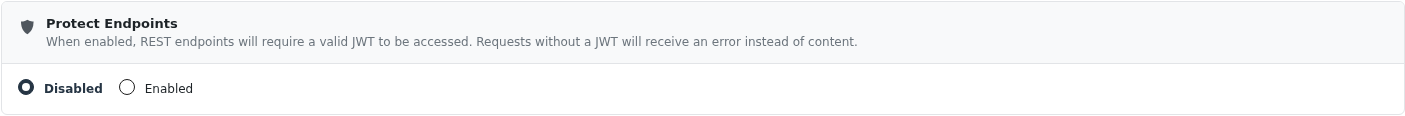
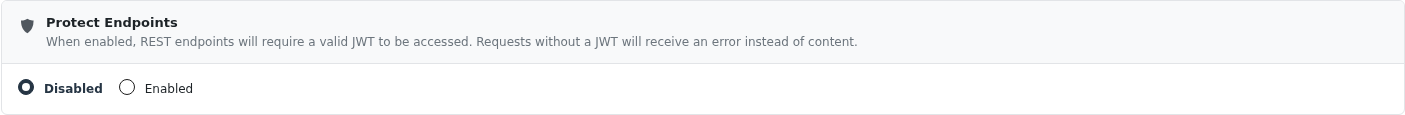
Improve docs

diff --git a/src/pages/v4.jsx b/src/pages/v4.jsx
@@ -352,11 +352,11 @@ const migrationSteps = [
   {
     n: '2',
     title: 'Work through the breaking changes',
-    desc: 'The breaking changes are listed above. Address them before going to production - the error envelope change, errorCode → error_code rename, register response shape, removed /register route, and User Identification location are the most likely to affect existing integrations.',
+    desc: 'The breaking changes are listed above. Address them before going to production - the error envelope change, the errorCode → error_code rename, the register response shape change, the removed /register route, and the relocated User Identification setting are the most likely to affect existing integrations.',
   },
   {
     n: '3',
-    title: 'Re-save your settings',
+    title: 'Validate your settings',
     desc: 'Your settings are automatically migrated. Open Settings → Simple JWT Login and verify your values carried over correctly.',
   },
   {
@@ -388,7 +388,7 @@ export default function V4Page() {
           </p>
           <div className={styles.heroCta}>
             <Link
-              to="https://github.com/nicumicle/simple-jwt-login/blob/v4/download/simple-jwt-login.zip?raw=true"
+              to="https://github.com/nicumicle/simple-jwt-login/blob/master/download/simple-jwt-login.zip?raw=true"
               className={styles.actionButton}
               title="Download v4 Release Candidate"
             >
@@ -518,7 +518,7 @@ export default function V4Page() {
             <span className={styles.sectionEyebrow}>Benchmarks</span>
             <h2 className={styles.sectionTitle}>v3 vs v4 Performance</h2>
             <p className={styles.sectionLead}>
-              Load-test results on identical infrastructure.
+              Load-test results from 100 calls per endpoint on identical infrastructure.
               All endpoints returned 100% success rate except where noted.
             </p>
             <div className={v4Styles.perfTableWrap}>
@@ -591,7 +591,7 @@ export default function V4Page() {
               </p>
               <div className={styles.ctaButtons}>
                 <Link
-                  to="https://github.com/nicumicle/simple-jwt-login/blob/v4/download/simple-jwt-login.zip?raw=true"
+                  to="https://github.com/nicumicle/simple-jwt-login/blob/master/download/simple-jwt-login.zip?raw=true"
                   className={styles.actionButton}
                   title="Download v4 Release Candidate"
                 >

diff --git a/src/pages/deploy-wordpress.jsx b/src/pages/deploy-wordpress.jsx
@@ -713,11 +713,6 @@ function DeployWordPressPage() {
             Marketplace setup, no terminal, no install wizard. We hand you the
             login.
           </p>
-          <p className={styles.heroNote}>
-            <FontAwesomeIcon icon={faShieldHalved} /> Your API token is used
-            only in your browser to talk to DigitalOcean. It is never sent to
-            us or stored anywhere.
-          </p>
         </div>
       </header>
 
@@ -737,6 +732,11 @@ function DeployWordPressPage() {
                     <p className={styles.cardLead}>
                       Paste a DigitalOcean Personal Access Token with{' '}
                       <strong>write</strong> scope to get started.
+                    </p>
+                    <p className={styles.infoHint}>
+                      <FontAwesomeIcon icon={faShieldHalved} /> Your API token
+                      is used only in your browser to talk to DigitalOcean. It
+                      is never sent to us or stored anywhere.
                     </p>
                     <Field
                       label="DigitalOcean API token"
@@ -1159,7 +1159,7 @@ function DeployWordPressPage() {
                   WordPress server.
                 </p>
                 <Link to={REFERRAL_URL} className={styles.referralBtn}>
-                  Get $5 in credit <FontAwesomeIcon icon={faArrowUpRightFromSquare} />
+                  Get Free Credits <FontAwesomeIcon icon={faArrowUpRightFromSquare} />
                 </Link>
                 <p className={styles.sideFinePrint}>
                   Already have an account? Just paste your token on the left.

diff --git a/docusaurus.config.ts b/docusaurus.config.ts
@@ -349,11 +349,11 @@ const config: Config = {
           title: 'Ecosystem',
         },
         {
-          type: 'docsVersionDropdown',
-          position: 'left',
+          type: 'search',
+          position: 'right',
         },
         {
-          type: 'search',
+          type: 'docsVersionDropdown',
           position: 'right',
         },
         // {

diff --git a/src/pages/deploy-wordpress.module.css b/src/pages/deploy-wordpress.module.css
@@ -62,17 +62,6 @@
   margin: 0 auto 1.25rem;
 }
 
-.heroNote {
-  display: inline-flex;
-  align-items: center;
-  gap: 0.5rem;
-  font-size: 0.85rem;
-  line-height: 1.6;
-  color: rgba(133, 216, 181, 0.85);
-  max-width: 560px;
-  margin: 0 auto;
-}
-
 .heroLogo {
   display: inline-flex;
   margin: 1.25rem 0 1.5rem;

diff --git a/docs/Protect-Endpoints.md b/docs/Protect-Endpoints.md
@@ -8,19 +8,28 @@ author: Nicu Micle
 author_url: https://github.com/nicumicle
 ---
 
-The Protect Endpoints feature lets you require a valid JWT for any WordPress REST API route. Use it to lock down sensitive data - such as user profiles, private posts, or custom post types - so they can only be accessed by authenticated callers.
+The Protect Endpoints feature lets you require a valid JWT for any WordPress REST API route. Use it to lock down sensitive data - such as user profiles, private posts, or custom post types - so they can only be accessed by authenticated callers, optionally restricted to specific WordPress roles.
 
-When a protected endpoint is called without a valid JWT, the plugin returns a `403` error immediately, before WordPress processes the request.
-
-The following error will be displayed, when an endpoint is protected and no JWT is provided:
+When a protected endpoint is called without a valid JWT, the plugin returns a `401` error immediately, before WordPress processes the request:
 
 ```json
 {
   "success": false,
   "data": {
     "message": "You are not authorized to access this endpoint.",
-    "errorCode": 403,
-    "type": "simple-jwt-login-route-protect"
+    "error_code": 75
+  }
+}
+```
+
+If a valid JWT is provided but the user doesn't have one of the roles required by a **JWT + Roles** rule, the plugin returns a `403` error instead:
+
+```json
+{
+  "success": false,
+  "data": {
+    "message": "You do not have the required role to access this endpoint.",
+    "error_code": 114
   }
 }
 ```
@@ -35,48 +44,46 @@ Configure under **Settings → Simple JWT Login → Protect Endpoints**.
 
 Enable or disable the endpoint protection feature. When disabled, no JWT check is applied to any REST route.
 
-### Protection Scope
+### Endpoint Rules
 
-![Protection Scope](/assets/images/screenshots/protect-endpoints/protection-scope.png)
+![Endpoint Rules](/assets/images/screenshots/protect-endpoints/endpoint-rules.png)
 
-Controls which endpoints are subject to JWT protection. Two options:
+Define per-endpoint rules. Click **+ Add Endpoint** to add a rule. Rules are evaluated top to bottom - the first matching rule wins.
 
-| Option | Behavior |
-| :----- | :------- |
-| **Apply on All REST Endpoints** | All REST API routes require a JWT. Endpoints in the **Whitelisted Endpoints** list are excluded from this requirement. |
-| **Apply only on Specific REST endpoints** | Only the routes listed in the **Protected Endpoints** list require a JWT. All other routes remain public. |
-
-### Whitelisted Endpoints
-
-![Whitelisted Endpoints](/assets/images/screenshots/protect-endpoints/whitelisted-endpoints.png)
-
-Visible when "Apply on All REST Endpoints" is selected. Add endpoint rules here to allow public access to those routes even though global protection is enabled.
-
-### Protected Endpoints
-
-Visible when "Apply only on Specific REST endpoints" is selected. Add endpoint rules here to require a JWT for those specific routes.
-
-**Each endpoint rule has three fields:**
+**Each rule has the following fields:**
 
 | Field | Options | Description |
 | :---- | :------ | :---------- |
 | HTTP Method | ALL, GET, POST, PUT, PATCH, DELETE | Which request methods the rule applies to. |
 | Match type | Starts with, Exact match | Whether the path must start with the value or match it exactly. |
-| URL path | text input | The REST API path to match (e.g. `/wp/v2/users`). |
+| Endpoint | text input | The REST API path to match (e.g. `/wp/v2/users`). |
+| Type | Public, JWT required, JWT + Roles | **Public** - always accessible, even with protection enabled by default. **JWT required** - a valid JWT is required, for any authenticated user. **JWT + Roles** - a valid JWT is required *and* the user must have at least one of the specified WordPress roles. |
+| Roles | comma-separated list | Only shown when Type is **JWT + Roles**. WordPress roles allowed to access the endpoint (e.g. `administrator, editor`). |
+
+### Default Action
+
+![Default Action](/assets/images/screenshots/protect-endpoints/default-action.png)
+
+Controls what happens to any endpoint that doesn't match a rule above:
+
+| Option | Behavior |
+| :----- | :------- |
+| **Allow access - protect only the endpoints listed above** | All REST routes are public by default. Only endpoints matching a **JWT required** or **JWT + Roles** rule need a JWT. |
+| **Require a valid JWT - keep only the endpoints listed above public** | All REST routes require a JWT by default. Only endpoints matching a **Public** rule stay public. |
 
 ---
 
 ## Example Configurations
 
 ####  Example 1
-Assume you specify `/wp/v2/users` with `ALL` and `Exact Match` in either the Protect or Whitelist settings.
+Assume you add a rule for `/wp/v2/users` with `ALL` and `Exact Match`.
 
 The rule applies to these URLs:
 - `http://yoursite.com/?rest_route=/wp/v2/users`
 - `http://yoursite.com/wp-json/wp/v2/users`
 
 #### Example 2
-Assume you specify `/wp/v2/users` with `GET` and `Starts With` in either the Protect or Whitelist settings.
+Assume you add a rule for `/wp/v2/users` with `GET` and `Starts With`.
 
 The rule applies to these URLs when called with `GET` only:
 - `http://yoursite.com/?rest_route=/wp/v2/users`
@@ -86,7 +93,7 @@ The rule applies to these URLs when called with `GET` only:
 - `http://yoursite.com/wp-json/wp/v2/users/{any_other_path}`
 
 #### Example 3
-Assume you specify `/wp/v2` with `ALL` and `Starts With` in either the `Apply only on Specific Endpoints`.
+Assume you add a rule for `/wp/v2` with `ALL`, `Starts With` and Type `JWT required`, and set the **Default Action** to `Allow access - protect only the endpoints listed above`.
 
 This way, you are making all the endpoints under `/wp/v2*` protected and they will be accessible only with a JWT.
 
@@ -94,6 +101,11 @@ For example, all these endpoints will be protected:
 - `/wp/v2/users` 
 - `/wp/v2/posts`
 - `/wp/v2/comments`
+
+#### Example 4
+Assume you add a rule for `/wp/v2/users` with `ALL`, `Starts With` and Type `JWT + Roles`, with Roles set to `administrator, editor`.
+
+Only users with a valid JWT *and* the `administrator` or `editor` role can access `/wp/v2/users` and its sub-paths. Any other authenticated or anonymous request receives the "You do not have the required role to access this endpoint." error.
 
 ## How to Pass the JWT
 

diff --git a/docs/auth/Authentication.md b/docs/auth/Authentication.md
@@ -37,6 +37,7 @@ Explore and test this endpoint using the [interactive API reference →](/api/v4
 | `password` | `required*` `string` | User plain-text password. Required when `password_hash` is absent. |
 | `password_hash` | `optional` `string` | The user's hashed password as stored in the database. Required when `password` is absent. |
 | `AUTH_KEY` | `optional` `string` | Auth Code value. Required only if "Require Authentication Code" is enabled. The parameter name matches the **Auth Code URL Key** configured in Auth Codes settings (default: `AUTH_KEY`). |
+| `payload` | `optional` `string` \| `object` | Extra claims merged into the JWT payload. Send a JSON-encoded string for form-encoded/query-string requests, or a native JSON object for JSON body requests. [Reserved claims](#custom-payload-claims) are always overridden by the authenticated user's data and cannot be set this way. |
 
 ## Request
 
@@ -64,6 +65,25 @@ With login (accepts email or username) and auth code:
   "password": "SomeSuperSecretPassword",
   "AUTH_KEY": "MySecretAuthCode"
 }
+```
+
+With extra payload claims (JSON body - native object):
+
+```json
+{
+  "email": "test@simplejwtlogin.com",
+  "password": "SomeSuperSecretPassword",
+  "payload": {
+    "department": "engineering",
+    "region": "eu"
+  }
+}
+```
+
+With extra payload claims (form-encoded/query-string - JSON-encoded string):
+
+```
+email=test@simplejwtlogin.com&password=SomeSuperSecretPassword&payload={"department":"engineering","region":"eu"}
 ```
 
 ## Responses
@@ -251,9 +271,9 @@ When `iss` is enabled in the payload, this field sets its value. Defaults to the
 
 #### Custom Payload Claims
 
-Add static key-value pairs to the JWT payload. These are injected into every token generated by the plugin.
+Add static key-value pairs to the JWT payload. These are injected into every token generated by the plugin. To add claims on a per-request basis instead, use the [`payload` parameter](#endpoint) on `POST /auth`.
 
-The following payload keys are reserved and cannot be overwritten: `iat`, `exp`, `email`, `id`, `site`, `username`, `iss`.
+The following payload keys are reserved and cannot be overwritten - either from these settings or from the `payload` request parameter: `iat`, `exp`, `email`, `id`, `site`, `username`, `iss`.
 
 **Example:**
 

diff --git a/versioned_docs/version-3.0.0/auth/Authentication.md b/versioned_docs/version-3.0.0/auth/Authentication.md
@@ -34,6 +34,7 @@ You can authenticate using any of the following combinations:
 | password | `required` `string` | User plain password. It is required if the `password_hash` is missing.|
 | password_hash | `optional` `string` | User password hash that it is stored in the Database. It is required if the `password` is missing. |
 | AUTH_CODE | `optional` `string` | Auth Code from the "Auth codes" section. Required only if the "Authentication Requires Auth Code" option is enabled. |
+| payload | `optional` `string` | Extra claims to merge into the JWT payload, as a JSON-encoded string, e.g. `{"department":"engineering"}`. Reserved claims (`iat`, `exp`, `email`, `id`, `site`, `username`) are always overridden by the authenticated user's data and cannot be set this way. |
 
 ## Request
 
@@ -62,6 +63,16 @@ OR
   "login": "username or email",
   "password" : "SomeSuperSecretPassword",
   "AUTH_CODE": "MySecretAuthCode"
+}
+```
+
+With extra payload claims:
+
+```json
+{
+  "email" : "test@simplejwtlogin.com",
+  "password": "SomeSuperSecretPassword",
+  "payload": "{\"department\":\"engineering\",\"region\":\"eu\"}"
 }
 ```
 
@@ -110,7 +121,7 @@ $result = $simpleJwtLogin->authenticate('email@simplejwtlogin.com', 'your passwo
 
 ## Screenshot
 
-![](https://github.com/nicumicle/simple-jwt-login/blob/master/wordpress.org/assets/screenshot-7.png?raw=true)
+![](/assets/images/screenshots/legacy-3.0.0/screenshot-7.png)
 
 
 ## Features

diff --git a/versioned_docs/version-3.0.0/Cors.md b/versioned_docs/version-3.0.0/Cors.md
@@ -24,4 +24,4 @@ This is the recommended configuration for:
 A wildcard CORS policy is intentionally permissive. Because Simple-JWT-Login endpoints are protected by JWT authentication (and optionally by Auth Codes and IP restrictions), this is generally safe. However, if your site exposes sensitive unauthenticated endpoints, consider restricting access at the web server or firewall level in addition to using CORS.
 
 ## Screenshot
-![](https://github.com/nicumicle/simple-jwt-login/blob/master/wordpress.org/assets/screenshot-10.png?raw=true)
+![](/assets/images/screenshots/legacy-3.0.0/screenshot-10.png)

diff --git a/docs/Cors.md b/docs/Cors.md
@@ -46,7 +46,7 @@ Specifies which origins are permitted to access the resource.
 | :---- | :-------- |
 | `*` | Any origin is allowed (permissive - suitable for public APIs) |
 | `https://app.example.com` | Only that specific origin is allowed |
-| `https://app1.com, https://app2.com` | Multiple specific origins (space-separated) |
+| `https://app1.com, https://app2.com` | Multiple specific origins (comma-separated) |
 
 Default example value: `*`
 

diff --git a/releases/2022-04-03-release-3.4.4.md b/releases/2022-04-03-release-3.4.4.md
@@ -15,7 +15,7 @@ This update brings new hooks for customizing responses, a fix for empty JWT head
 ## New Features
 
 - New hooks have been added to allow customization of all success responses
-- New [OpenAPI](https://github.com/nicumicle/simple-jwt-login/blob/master/postman/openapi.yaml) spec file has been added
+- New [OpenAPI](https://github.com/nicumicle/simple-jwt-login/blob/v3/postman/openapi.yaml) spec file has been added
 
 ## Bug Fixes
 

diff --git a/versioned_docs/version-3.0.0/Hooks.md b/versioned_docs/version-3.0.0/Hooks.md
@@ -254,7 +254,7 @@ Fires before the `GET /auth/validate` response is returned.
 
 ## Settings Screenshot
 
-![Hooks settings panel](https://github.com/nicumicle/simple-jwt-login/blob/master/wordpress.org/assets/screenshot-9.png?raw=true)
+![Hooks settings panel](/assets/images/screenshots/legacy-3.0.0/screenshot-9.png)
 
 ---
 

diff --git a/versioned_docs/version-3.0.0/Protect-Endpoints.md b/versioned_docs/version-3.0.0/Protect-Endpoints.md
@@ -27,7 +27,7 @@ The following error will be displayed, when an endpoint is protected and no JWT 
 
 ## Screenshot
 
-![](https://github.com/nicumicle/simple-jwt-login/blob/master/wordpress.org/assets/screenshot-11.png?raw=true)
+![](/assets/images/screenshots/legacy-3.0.0/screenshot-11.png)
 
 ## Protection Modes
 
